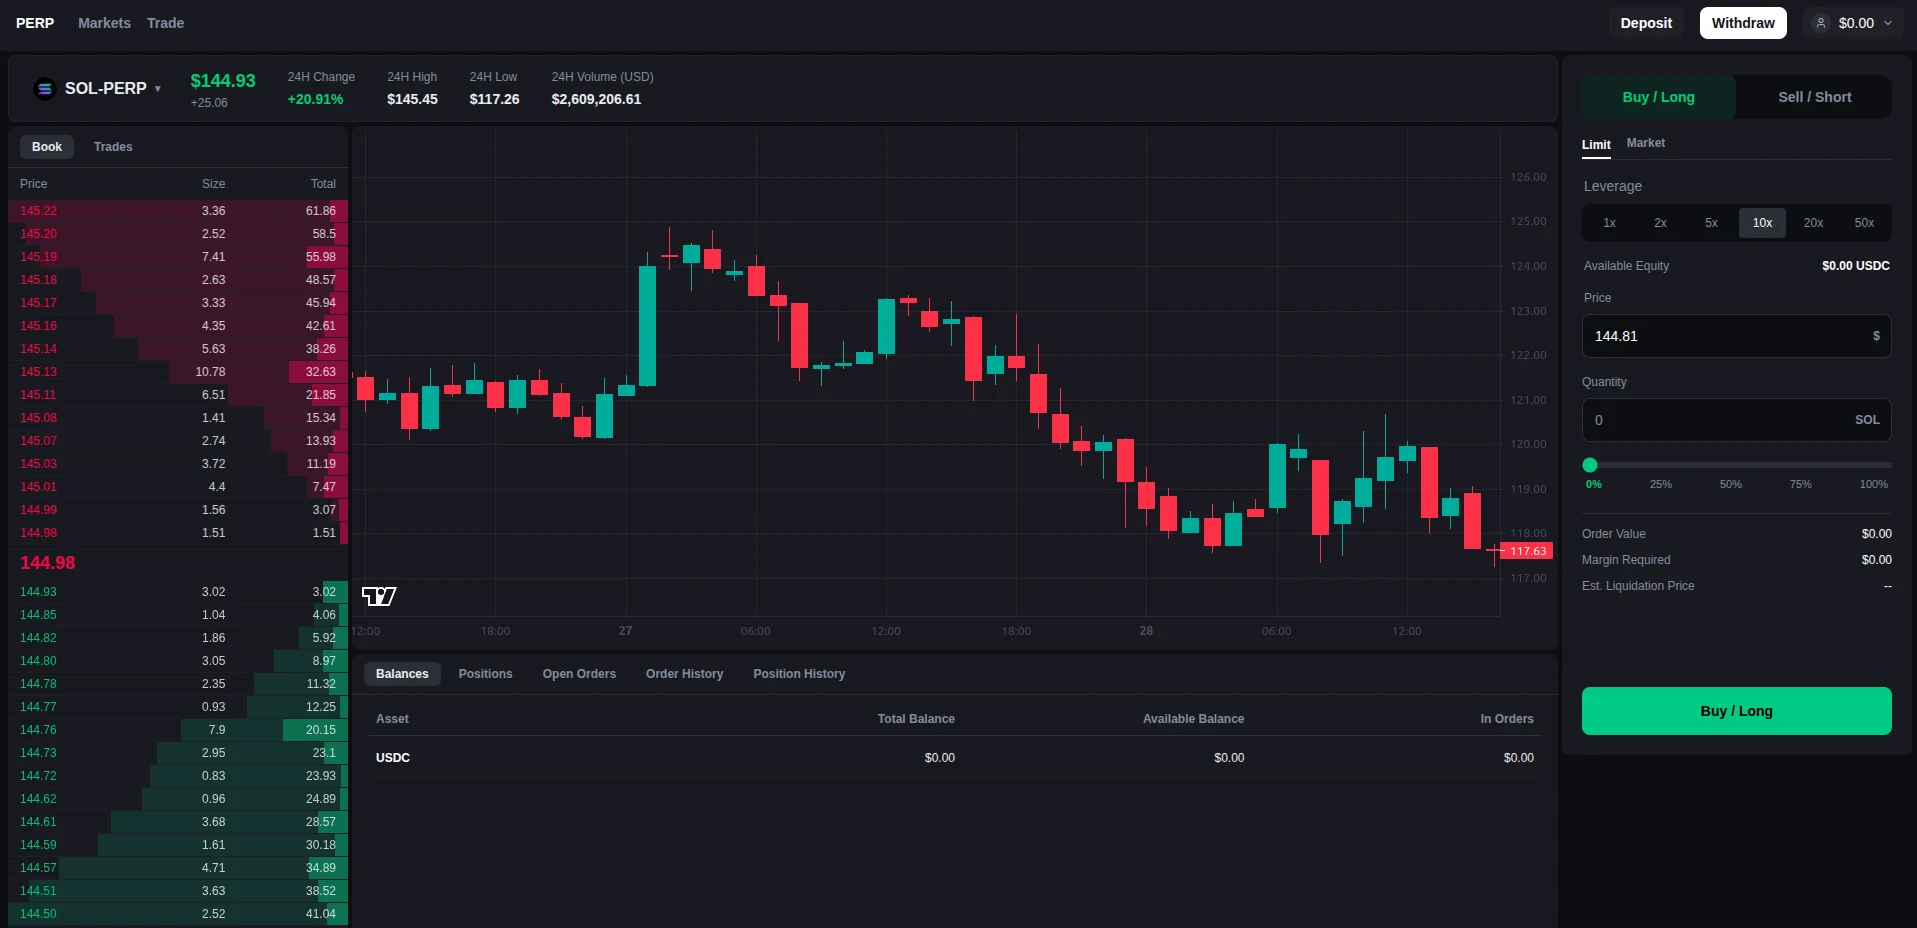
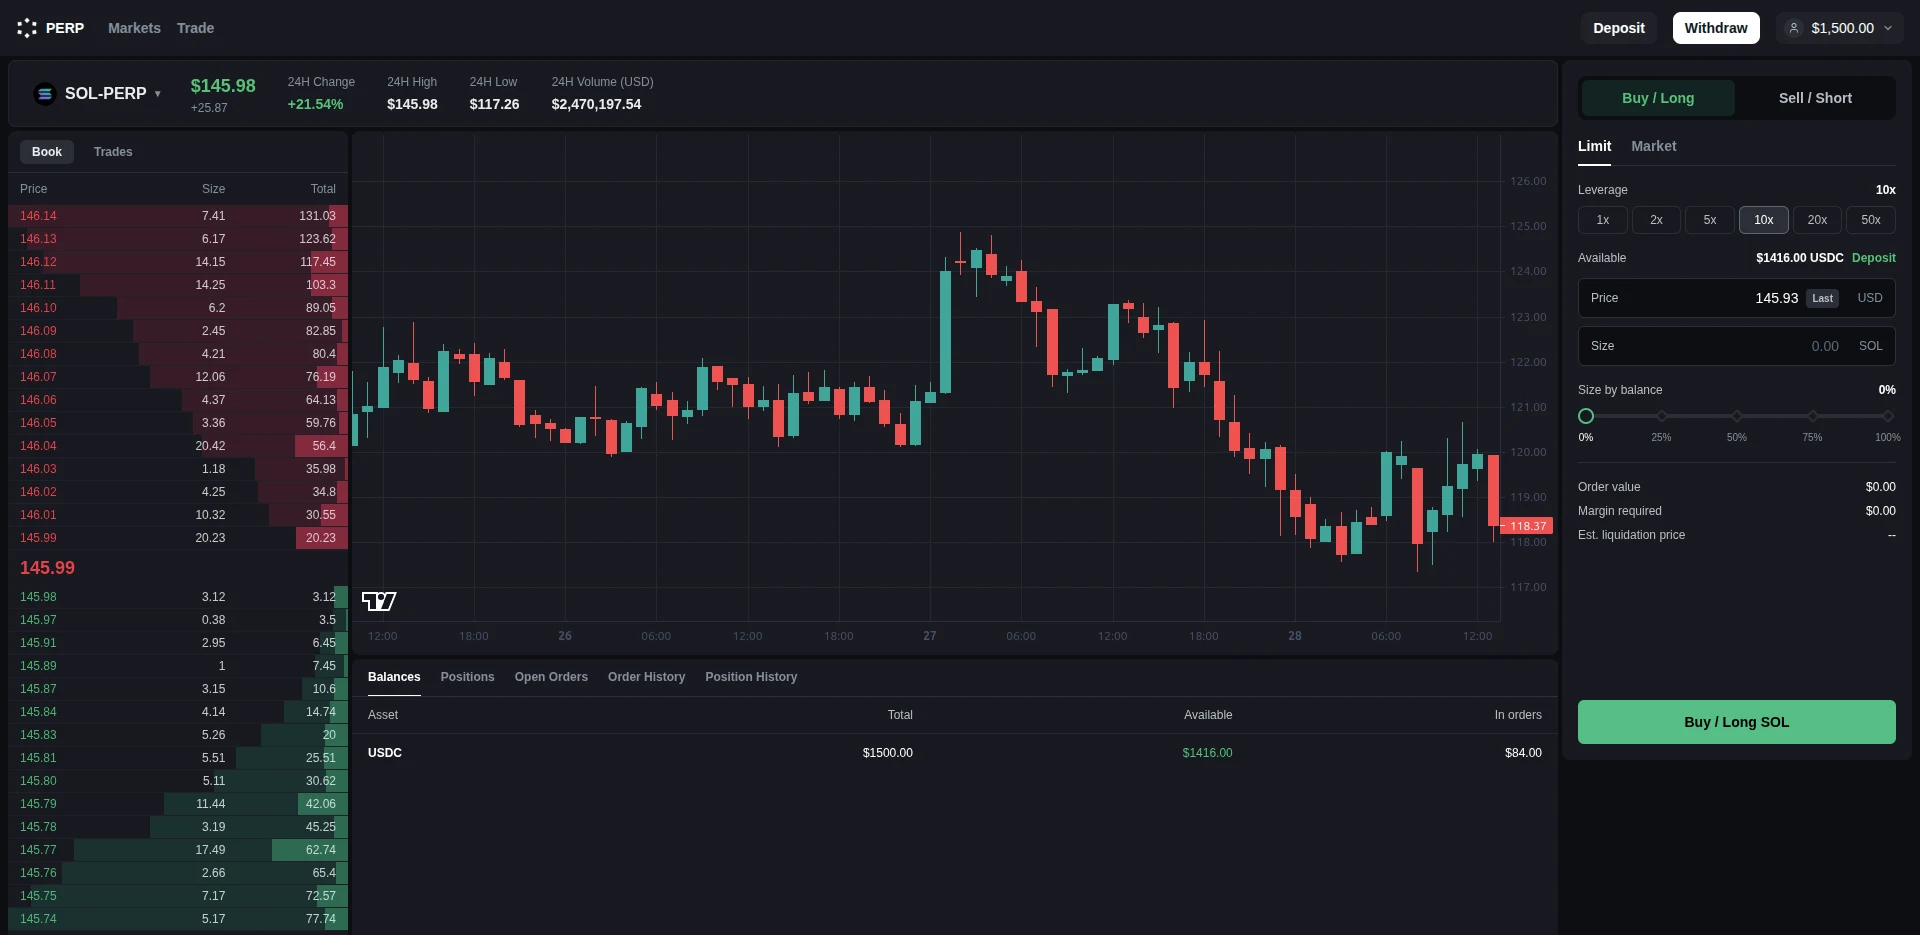
feat(home): update app preview screenshot with redesigned trading terminal

diff --git a/app/page.tsx b/app/page.tsx
@@ -115,8 +115,8 @@ export default function Home() {
               <Image
                 src="/assets/trading-ui.webp"
                 alt="PERP trading terminal with order book, candlestick chart and order form"
-                width={1917}
-                height={928}
+                width={1920}
+                height={935}
                 priority
                 sizes="(min-width: 1024px) 1024px, 100vw"
                 className="block h-auto w-full"
